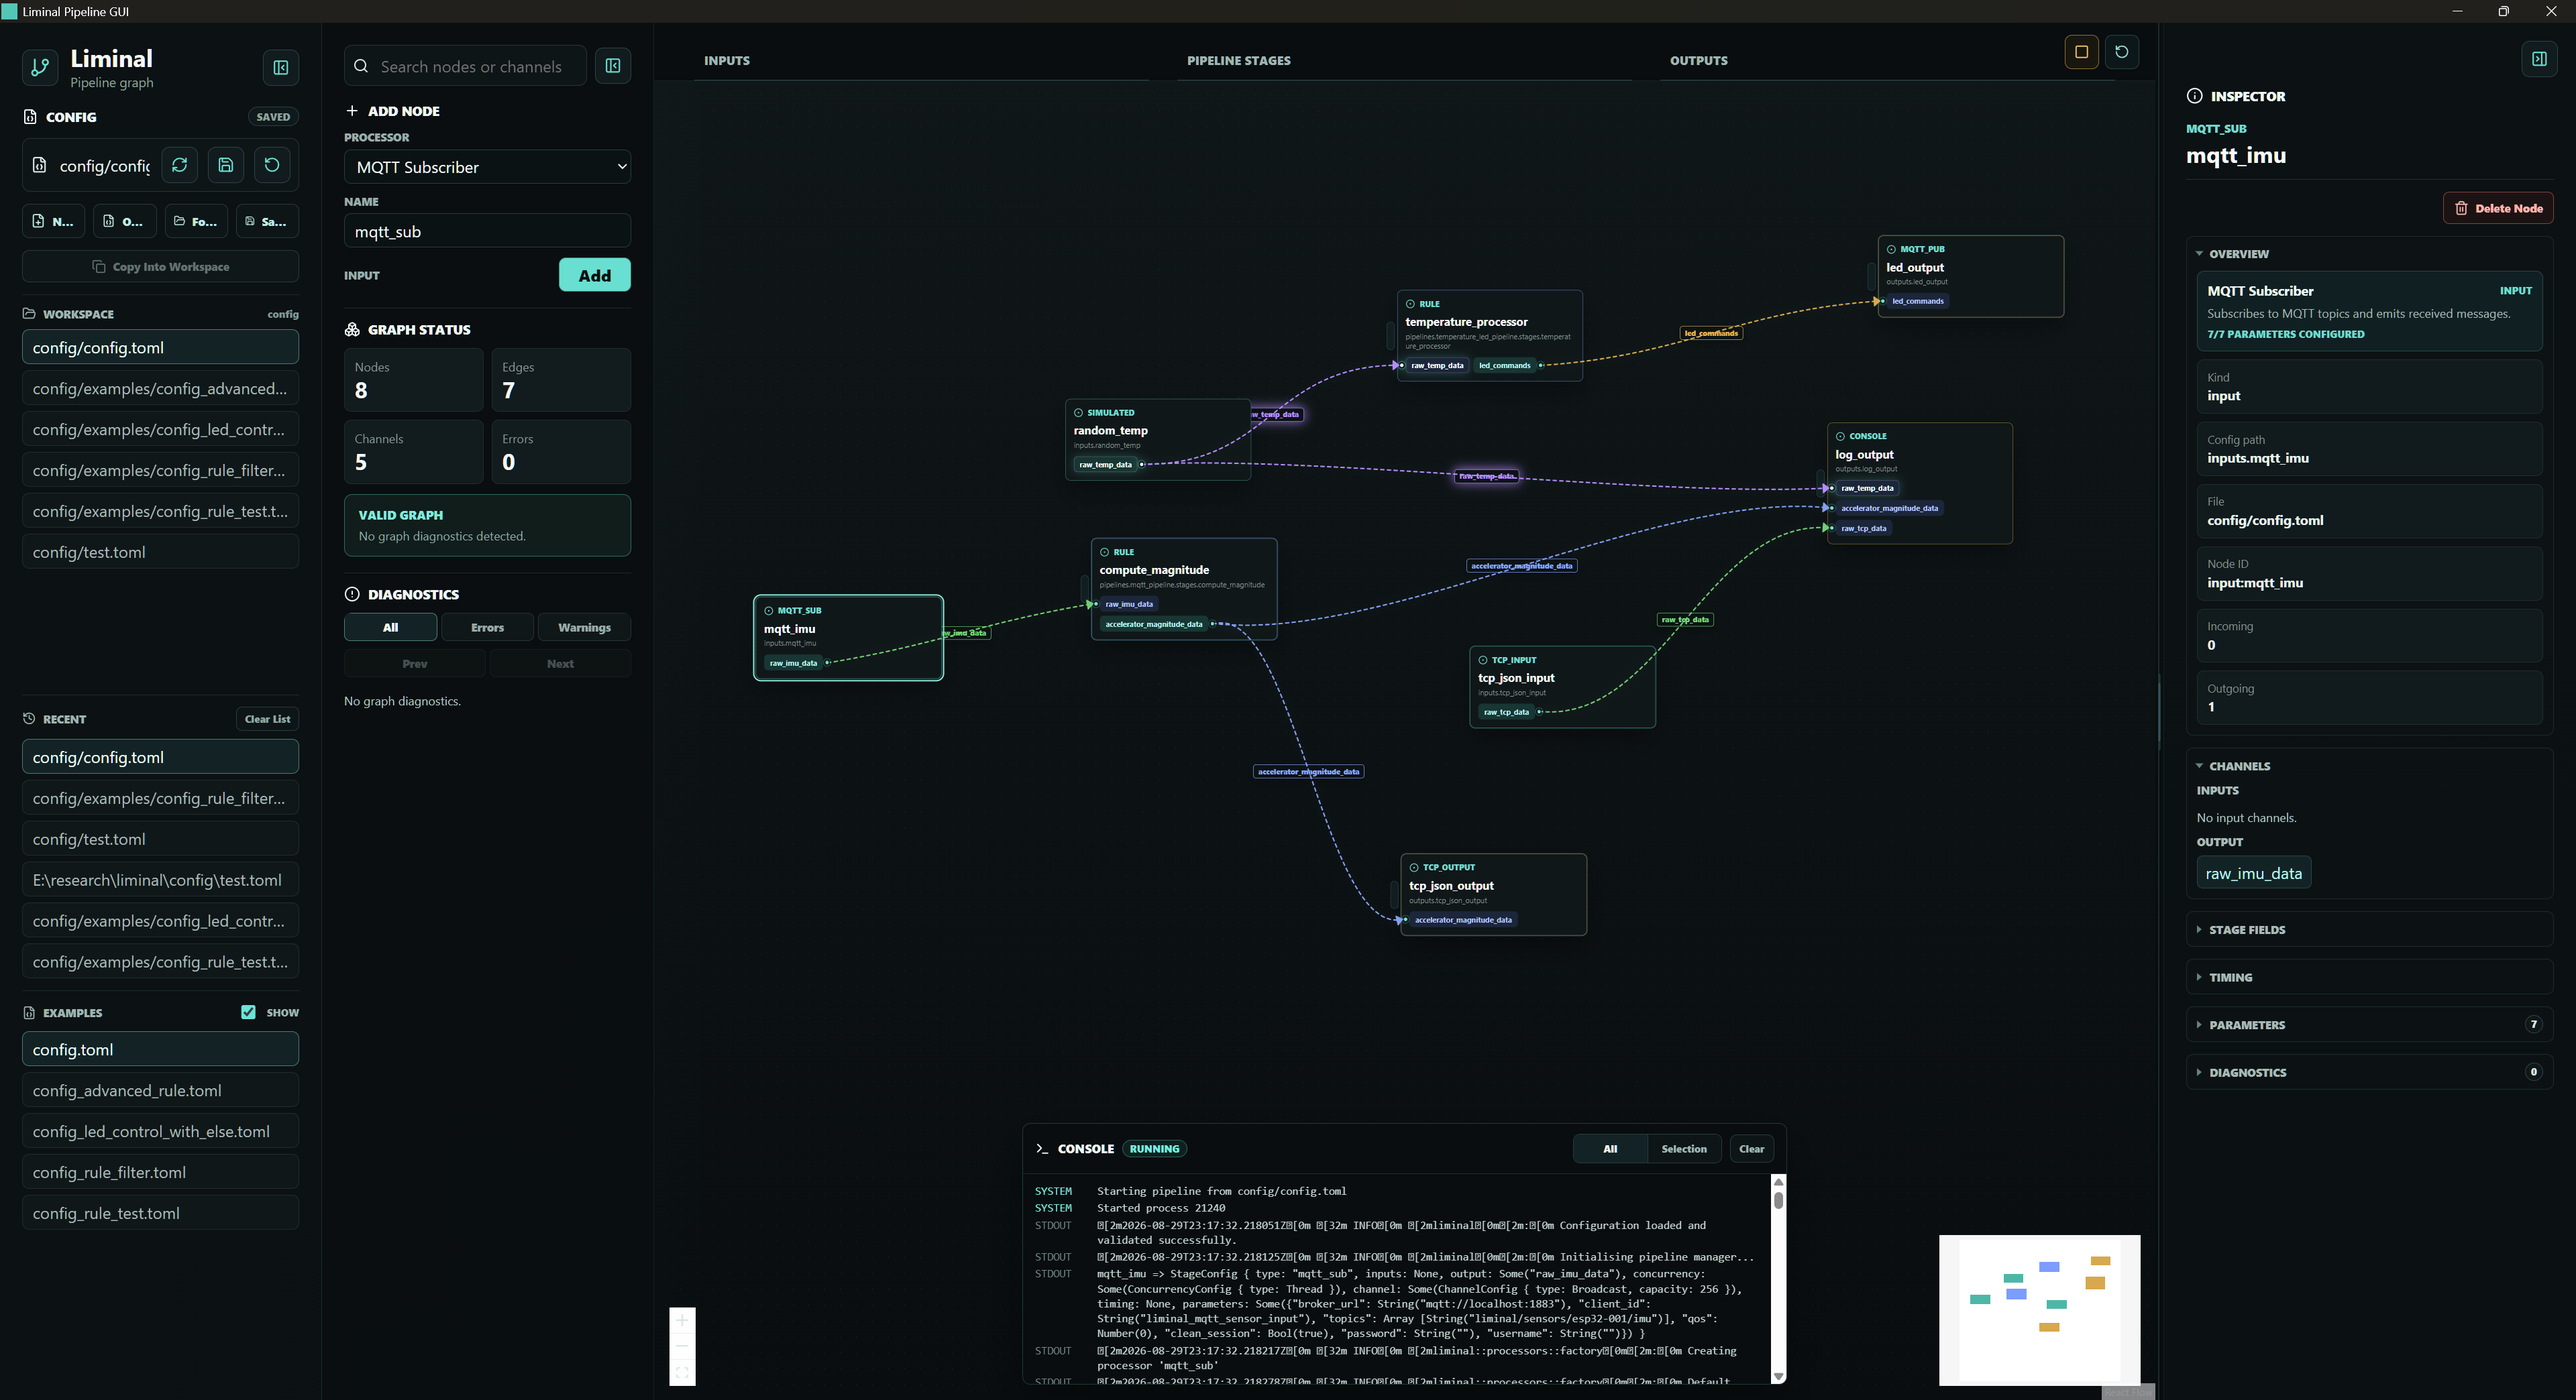
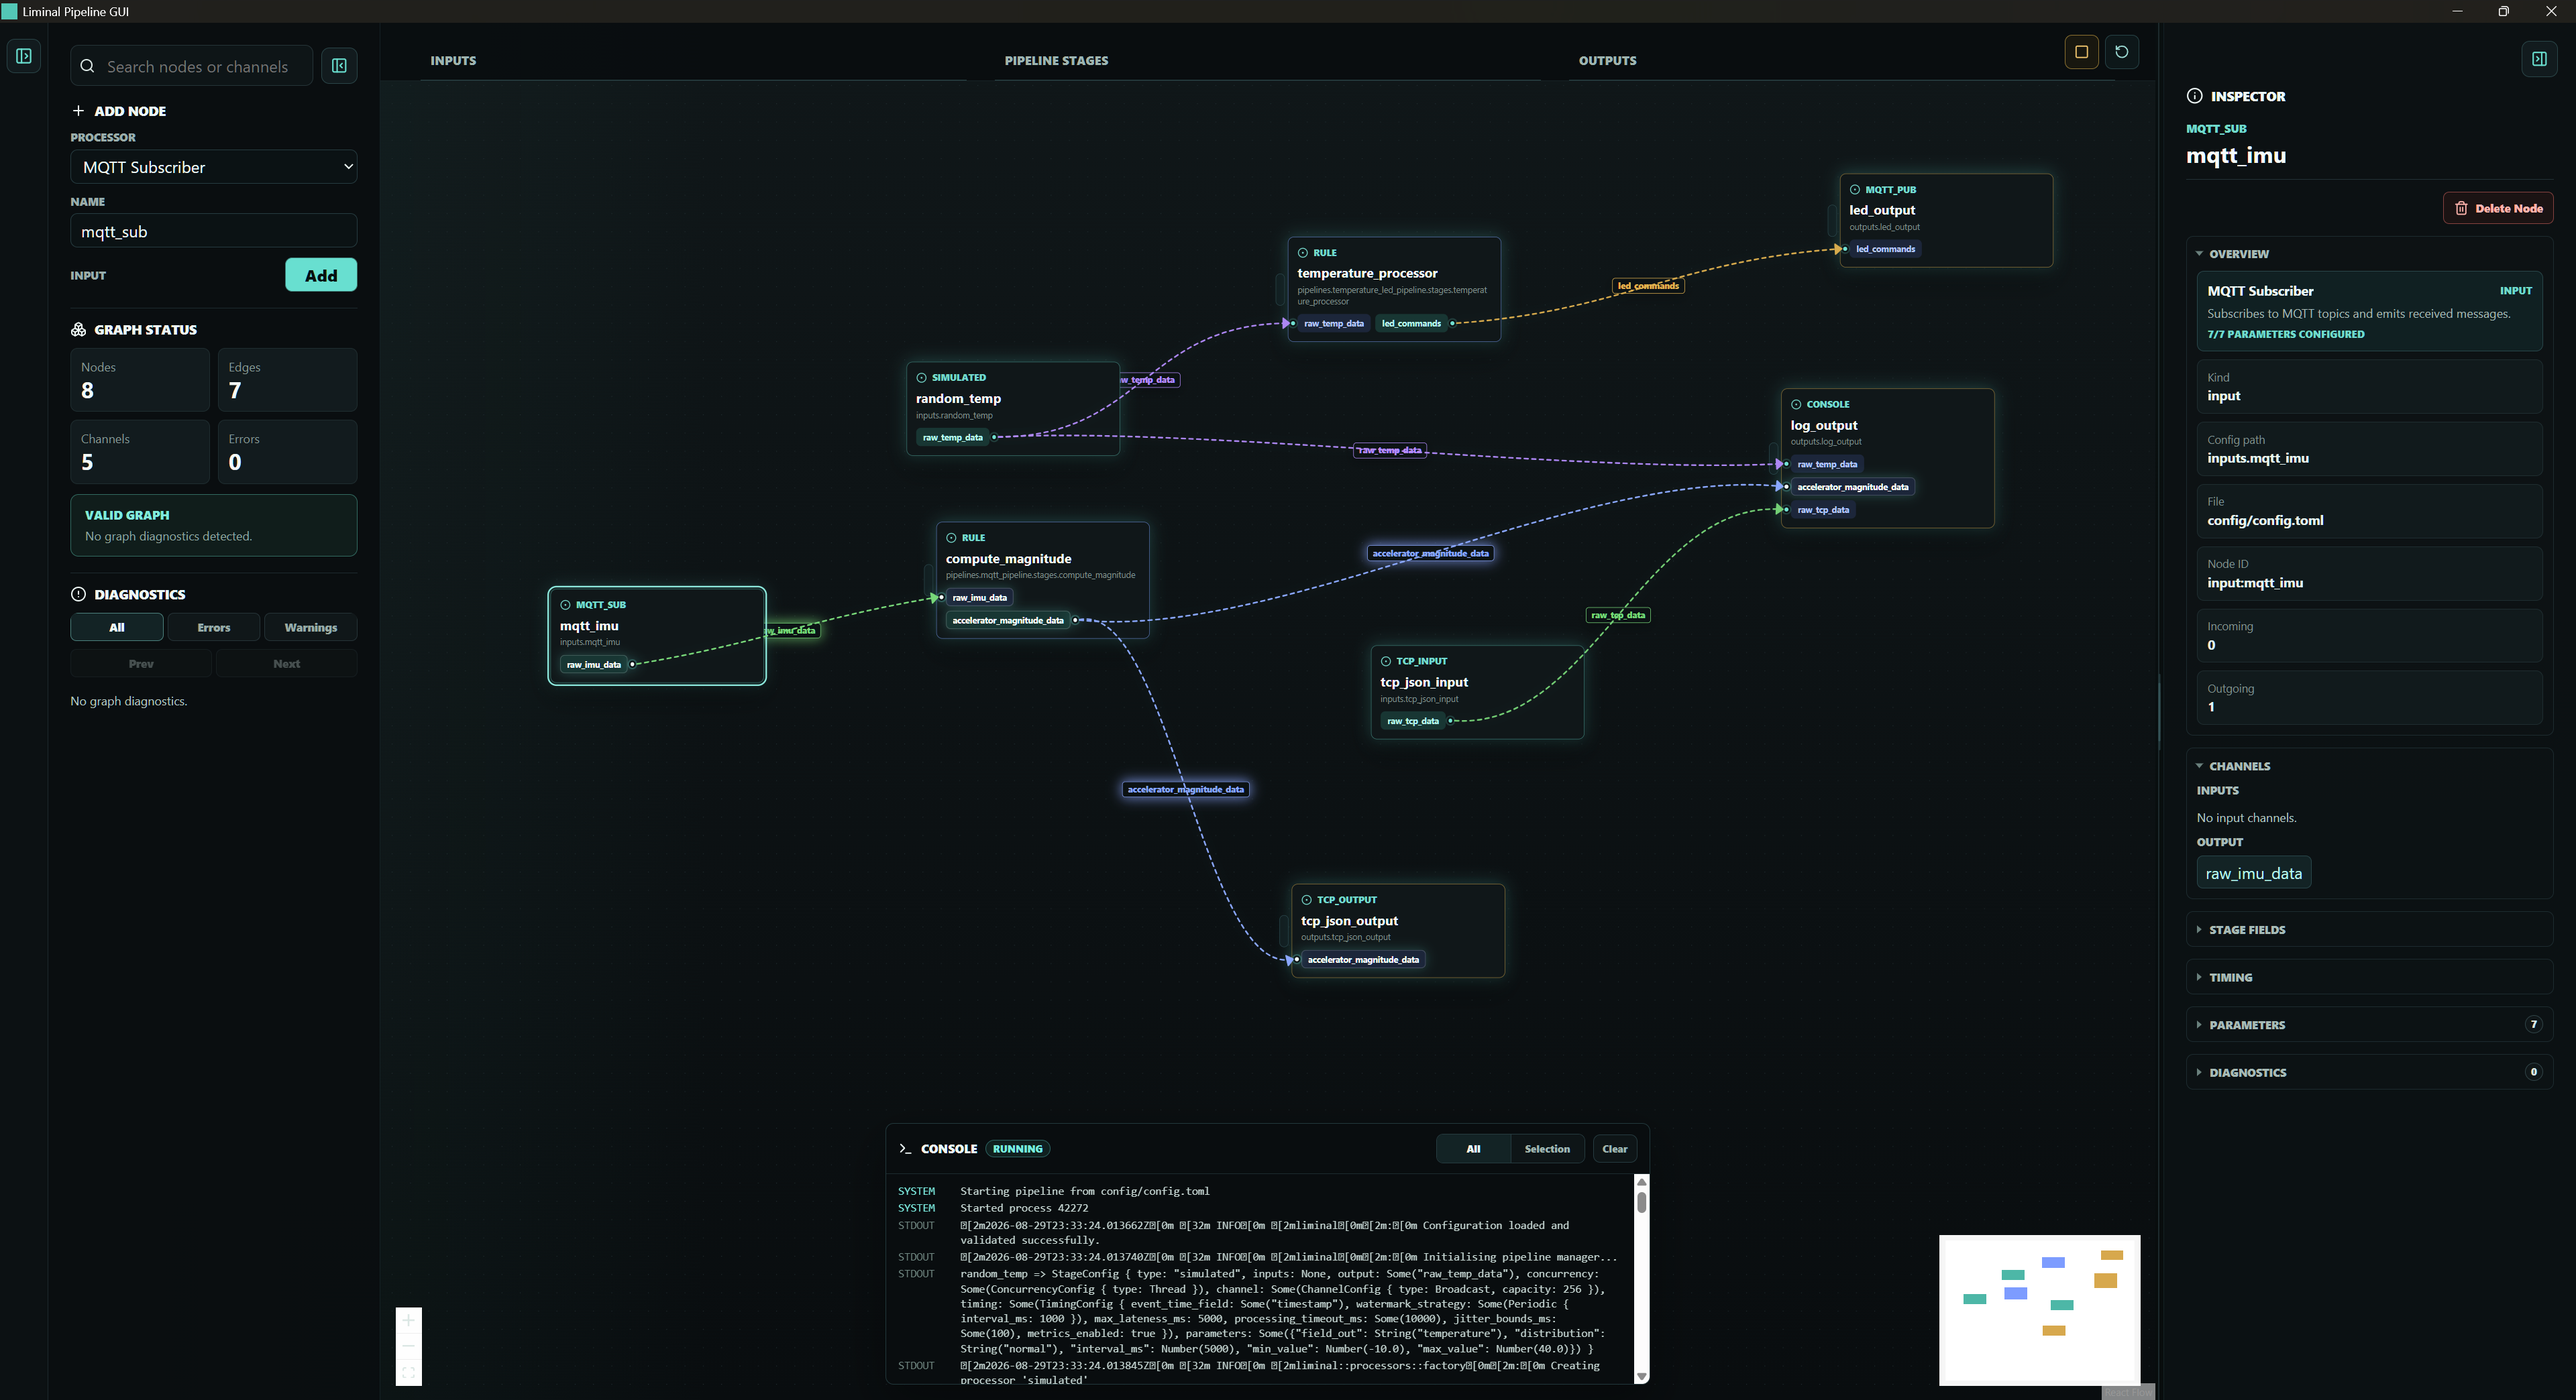
Launching pipelines from within the Liminal GUI

diff --git a/gui/src/App.tsx b/gui/src/App.tsx
@@ -1524,17 +1524,17 @@ function ConfigBrowserPanel({
           <FilePlus size={15} />
           <span>New</span>
         </button>
-        <button onClick={onOpenFile}>
-          <FileJson size={15} />
-          <span>Open</span>
-        </button>
-        <button onClick={onOpenFolder}>
-          <FolderOpen size={15} />
-          <span>Folder</span>
-        </button>
         <button onClick={onSaveAs} disabled={draftContent === null || saveState === "saving"}>
           <Save size={15} />
           <span>Save As</span>
+        </button>
+        <button onClick={onOpenFile}>
+          <FileJson size={15} />
+          <span>Open File</span>
+        </button>
+        <button onClick={onOpenFolder}>
+          <FolderOpen size={15} />
+          <span>Open Folder</span>
         </button>
       </div>
 

diff --git a/gui/src/styles.css b/gui/src/styles.css
@@ -341,7 +341,7 @@ button {
 
 .file-action-row {
   display: grid;
-  grid-template-columns: repeat(4, minmax(0, 1fr));
+  grid-template-columns: repeat(2, minmax(0, 1fr));
   gap: 8px;
 }
 
